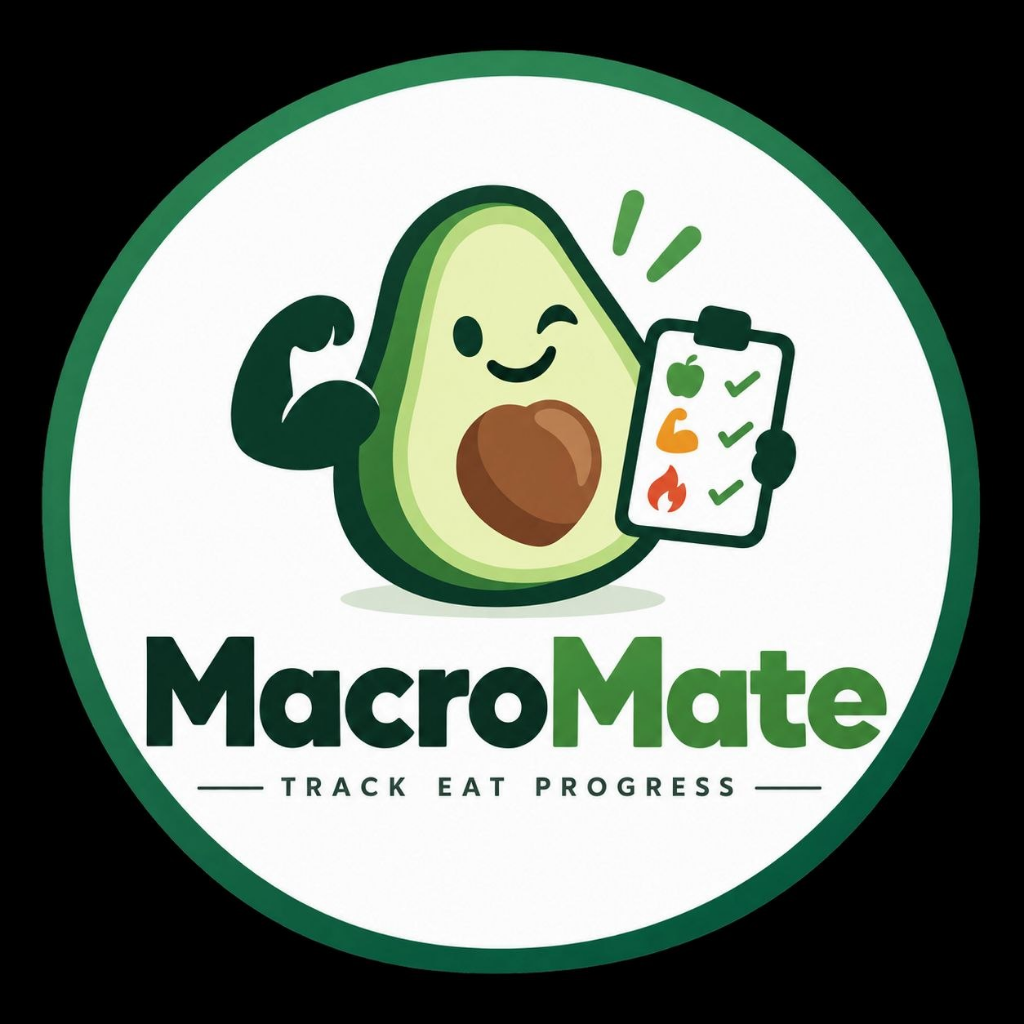
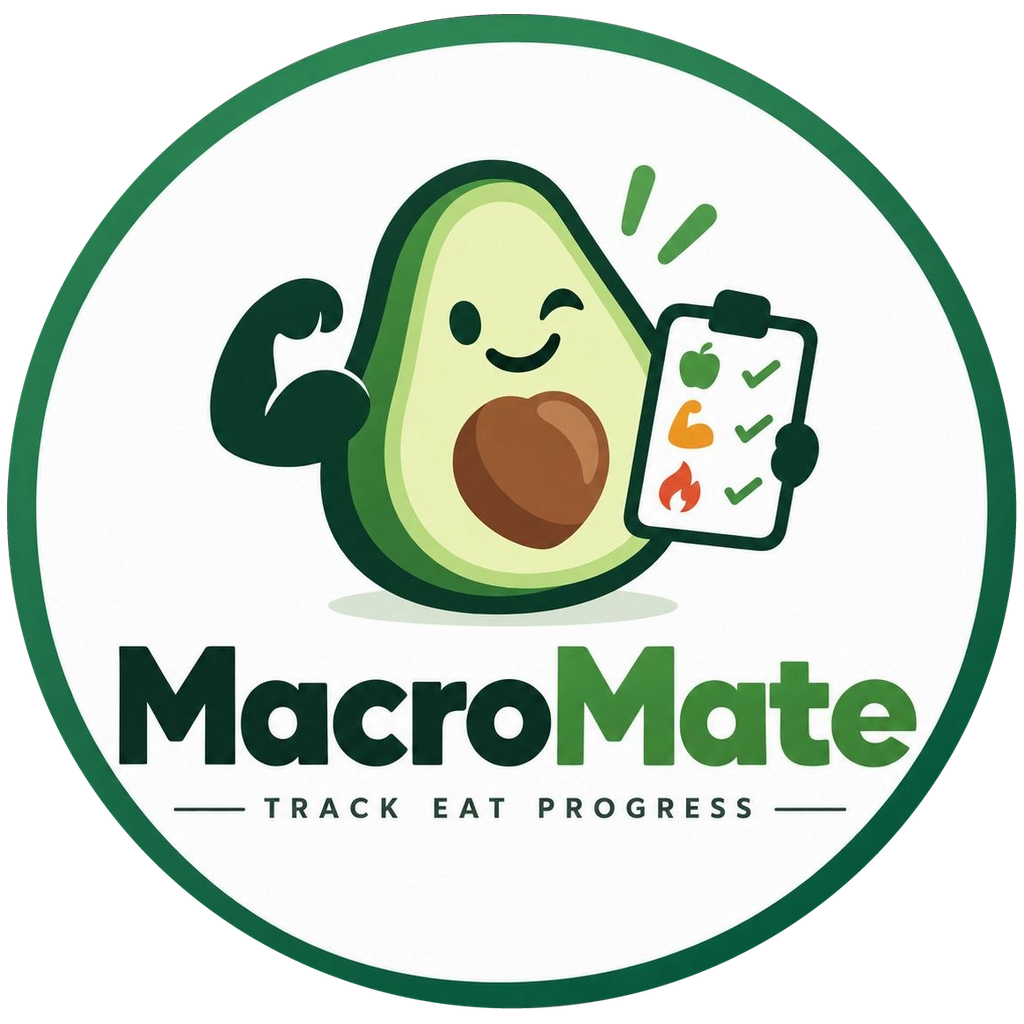
feat: ship circular transparent branding with the HA integration

diff --git a/README.md b/README.md
@@ -1,7 +1,7 @@
 # MacroMate for Home Assistant
 
 <p align="center">
-  <img src="brand/macromate-logo.jpg" alt="MacroMate – Track Eat Progress" width="420">
+  <img src="brand/macromate-logo.png" alt="MacroMate – Track Eat Progress" width="420">
 </p>
 
 A local meal and macro tracker that uses existing Garmin Connect sensors in Home Assistant and provides an interface for Hermes Agent.
@@ -36,6 +36,12 @@ HACS requires a public GitHub repository. The button opens the repository flow i
 5. Go to **Settings → Devices & services → Add integration → MacroMate**.
 
 If the button does not offer to add the repository, use **HACS → ⋮ → Custom repositories** and add `https://github.com/v4lle5/macromate` with type **Integration**.
+
+## Integration branding
+
+MacroMate ships its circular, transparent PNG icon and logo in `custom_components/macromate/brand/`, including standard and high-resolution variants. Home Assistant **2026.3 or newer** loads these local brand images automatically after the integration is installed. No separate brands-repository submission is required for those versions. Older Home Assistant versions may show a placeholder instead. Local branding does not guarantee an icon in HACS before installation.
+
+After updating through HACS, restart Home Assistant and refresh your browser if the previous icon is cached.
 
 ## Manual setup
 
